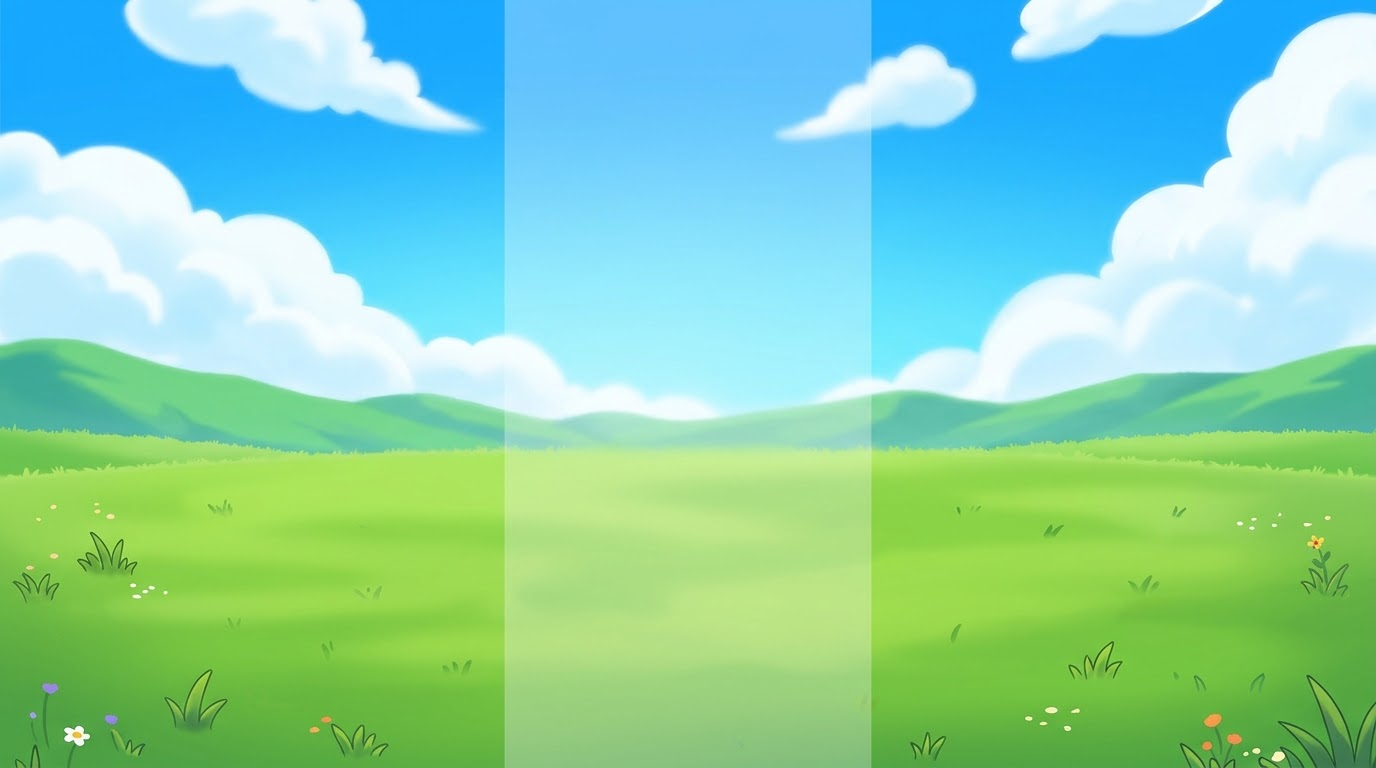
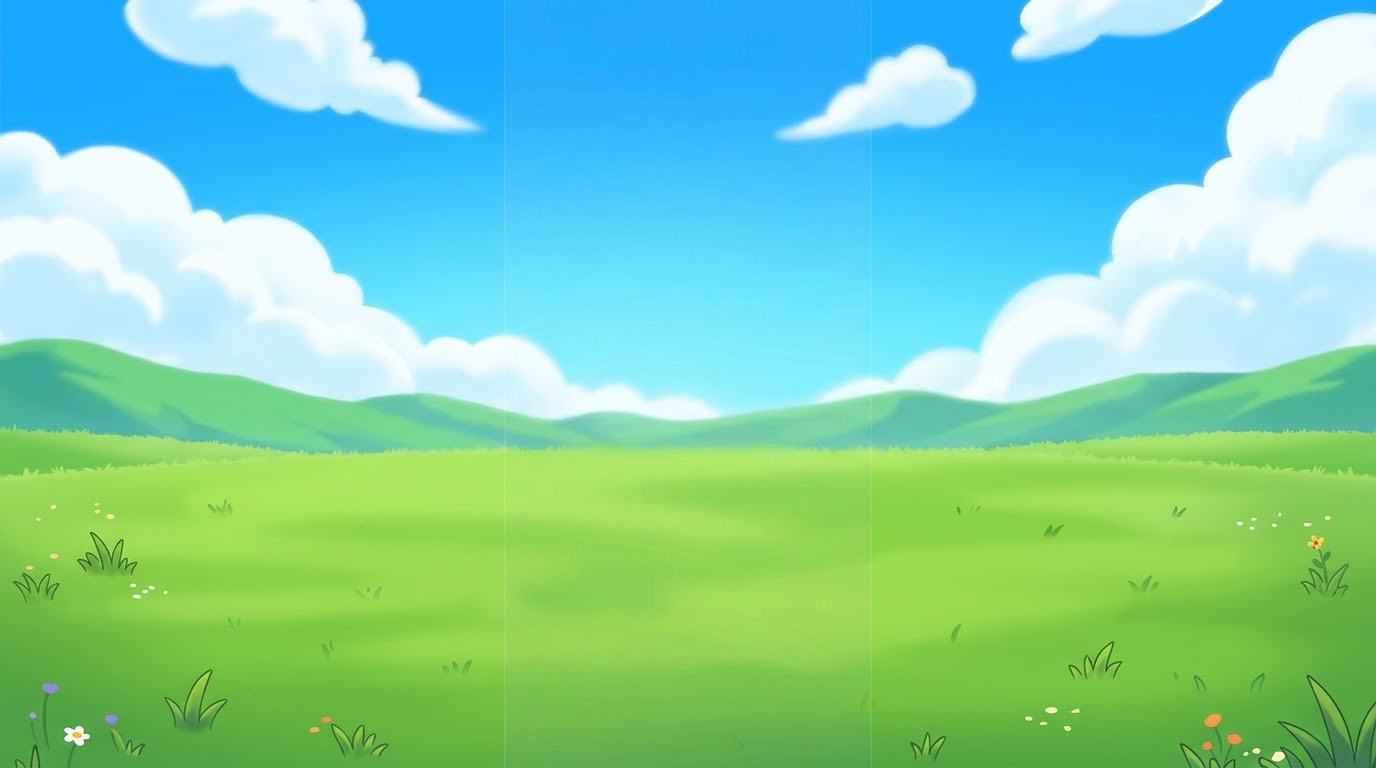
fix: remove baked wallpaper stripes and refresh Safari cache

Changed region(s): [[0.3438, 0.0, 0.6562, 1.0]]

diff --git a/TetrisApp/www/css/mobile-fix.css b/TetrisApp/www/css/mobile-fix.css
@@ -239,7 +239,7 @@ body { overflow-x: hidden; overflow-y: auto; touch-action: pan-y; }
    Both assets are offline local files; CSS gradients provide a graceful fallback. */
 html.pokemon-theme-active body {
     background-color: #75cb77;
-    background-image: linear-gradient(rgba(10, 28, 53, .15), rgba(8, 26, 43, .2)), url("../images/pokemon/backgrounds/pokemon_bg_desktop.jpg");
+    background-image: linear-gradient(rgba(10, 28, 53, .15), rgba(8, 26, 43, .2)), url("../images/pokemon/backgrounds/pokemon_bg_desktop.jpg?v=0.7.9");
     background-repeat: no-repeat;
     background-size: cover;
     background-position: center center;
@@ -277,14 +277,14 @@ html.pokemon-theme-active #pokemon-side-slot .pokemon-side-character {
 
 @media (max-width: 768px) and (orientation: portrait) {
     html.pokemon-theme-active body {
-        background-image: linear-gradient(rgba(10, 28, 53, .12), rgba(8, 26, 43, .2)), url("../images/pokemon/backgrounds/pokemon_bg_mobile.jpg");
+        background-image: linear-gradient(rgba(10, 28, 53, .12), rgba(8, 26, 43, .2)), url("../images/pokemon/backgrounds/pokemon_bg_mobile.jpg?v=0.7.9");
         background-attachment: scroll;
     }
 }
 
 /* v0.4.7: reliable background on the menu and playfield; paths resolved relative to CSS. */
 html.pokemon-theme-active body {
-    background-image: linear-gradient(rgba(10, 28, 53, .10), rgba(8, 26, 43, .12)), url("../images/pokemon/backgrounds/pokemon_bg_desktop.jpg") !important;
+    background-image: linear-gradient(rgba(10, 28, 53, .10), rgba(8, 26, 43, .12)), url("../images/pokemon/backgrounds/pokemon_bg_desktop.jpg?v=0.7.9") !important;
 }
 html.pokemon-theme-active #start-menu.menu-overlay,
 html.pokemon-theme-active #pause-menu.menu-overlay,
@@ -295,7 +295,7 @@ html.pokemon-theme-active #game-over-screen.menu-overlay {
 }
 @media (max-width: 768px) and (orientation: portrait) {
     html.pokemon-theme-active body {
-        background-image: linear-gradient(rgba(10, 28, 53, .08), rgba(8, 26, 43, .10)), url("../images/pokemon/backgrounds/pokemon_bg_mobile.jpg") !important;
+        background-image: linear-gradient(rgba(10, 28, 53, .08), rgba(8, 26, 43, .10)), url("../images/pokemon/backgrounds/pokemon_bg_mobile.jpg?v=0.7.9") !important;
         background-position: center center;
         background-size: cover;
     }
@@ -549,7 +549,7 @@ html.pokemon-theme-active #main-container { position: relative; }
 }
 /* One consistent wallpaper image; remove theme tint and overlay panels. */
 html.pokemon-theme-active body {
-  background-image: url("../images/pokemon/backgrounds/pokemon_bg_desktop.jpg") !important;
+  background-image: url("../images/pokemon/backgrounds/pokemon_bg_desktop.jpg?v=0.7.9") !important;
   background-repeat: no-repeat !important;
   background-position: center center !important;
   background-size: cover !important;
@@ -562,7 +562,7 @@ html.pokemon-theme-active #main-container {
 }
 @media (max-width: 768px) and (orientation: portrait) {
   html.pokemon-theme-active body {
-    background-image: url("../images/pokemon/backgrounds/pokemon_bg_mobile.jpg") !important;
+    background-image: url("../images/pokemon/backgrounds/pokemon_bg_mobile.jpg?v=0.7.9") !important;
     background-attachment: scroll !important;
   }
 }

diff --git a/TetrisApp/www/index.html b/TetrisApp/www/index.html
@@ -12,7 +12,7 @@
     <link rel="stylesheet" href="css/highscores.css">
     <link rel="stylesheet" href="css/game.css?v=0.7.1">
     <link rel="stylesheet" href="css/responsive.css">
-    <link rel="stylesheet" href="css/mobile-fix.css?v=0.7.8">
+    <link rel="stylesheet" href="css/mobile-fix.css?v=0.7.9">
     <link rel="stylesheet" href="css/tutorial.css">
         <link rel="icon" type="image/png" sizes="128x128" href="icons/app-icon.png">
     <link rel="apple-touch-icon" href="icons/app-icon.png">
@@ -54,7 +54,7 @@
                 <input type="checkbox" id="dynamic-speed-toggle" name="dynamic-speed-toggle" checked>
                 <label for="dynamic-speed-toggle" data-i18n-key="dynamicDescentLabel">Velocidad dinámica</label>
             </div>
-            <div class="game-version" aria-label="Game version">v0.7.8</div>
+            <div class="game-version" aria-label="Game version">v0.7.9</div>
         </div>
     </div>
 

diff --git a/ROADMAP.md b/ROADMAP.md
@@ -3,6 +3,10 @@
 Repository: https://github.com/kimloor/PkmnBlockPuzzle
 Status: planning document; items are proposals until confirmed by the owner.
 
+## Safari corrected wallpaper + larger portrait board — source 0.7.9
+
+**Asset processing: completed in GitHub Actions. Safari device visual acceptance pending.**
+
 ## Safari background correction and larger portrait board — 30 October 2026
 
 **Status: v0.7.8 BOARD SOURCE UPDATED; WALLPAPER WORKFLOW VERSION GUARD FIXED; FINAL BINARY PUBLICATION AND SAFARI DEVICE QA PENDING.** Both mobile and desktop JPEGs contain a pale vertical band baked into source pixels. A guarded GitHub Actions workflow will estimate the white tint from both rectangle seams, reverse it only inside the stripe, verify seam reduction, commit updated JPEGs and invalidate the browser image cache in v0.7.7, then deploy Pages. Original images remain available in Git history. The portrait board/HUD/header now share a viewport-width value up to 360px, no longer shrunk by Safari visual viewport height. Pikachu gets a 104–130px portrait sprite; pointer events pass through to the board. Verify on-device Safari after both deployment stages; do not build APK without owner authorization.

diff --git a/CHANGELOG.md b/CHANGELOG.md
@@ -6,6 +6,12 @@ This file tracks verified releases. Historical release details should be filled 
 
 ## [Unreleased]
 
+## [0.7.9] — Embedded wallpaper stripe restoration (2026-10-30)
+- Reverse-alpha corrected the rectangular pale overlay in both JPEG backgrounds without redrawing artwork.
+- Measured reduced edge seam; original JPEG dimensions kept; Safari image URLs cache-busted.
+- Code and web deployment verified separately; Android APK not built.
+
+
 ## [0.7.8] — Wallpaper repair workflow version guard (2026-10-30)
 - Changed the restoration workflow to derive its version and Android code dynamically, preventing previous hard-coded version assertions from aborting binary publication.
 - First restoration run corrected both images in memory but failed test; this source update re-triggers a validated run. No gameplay or art changes yet.
